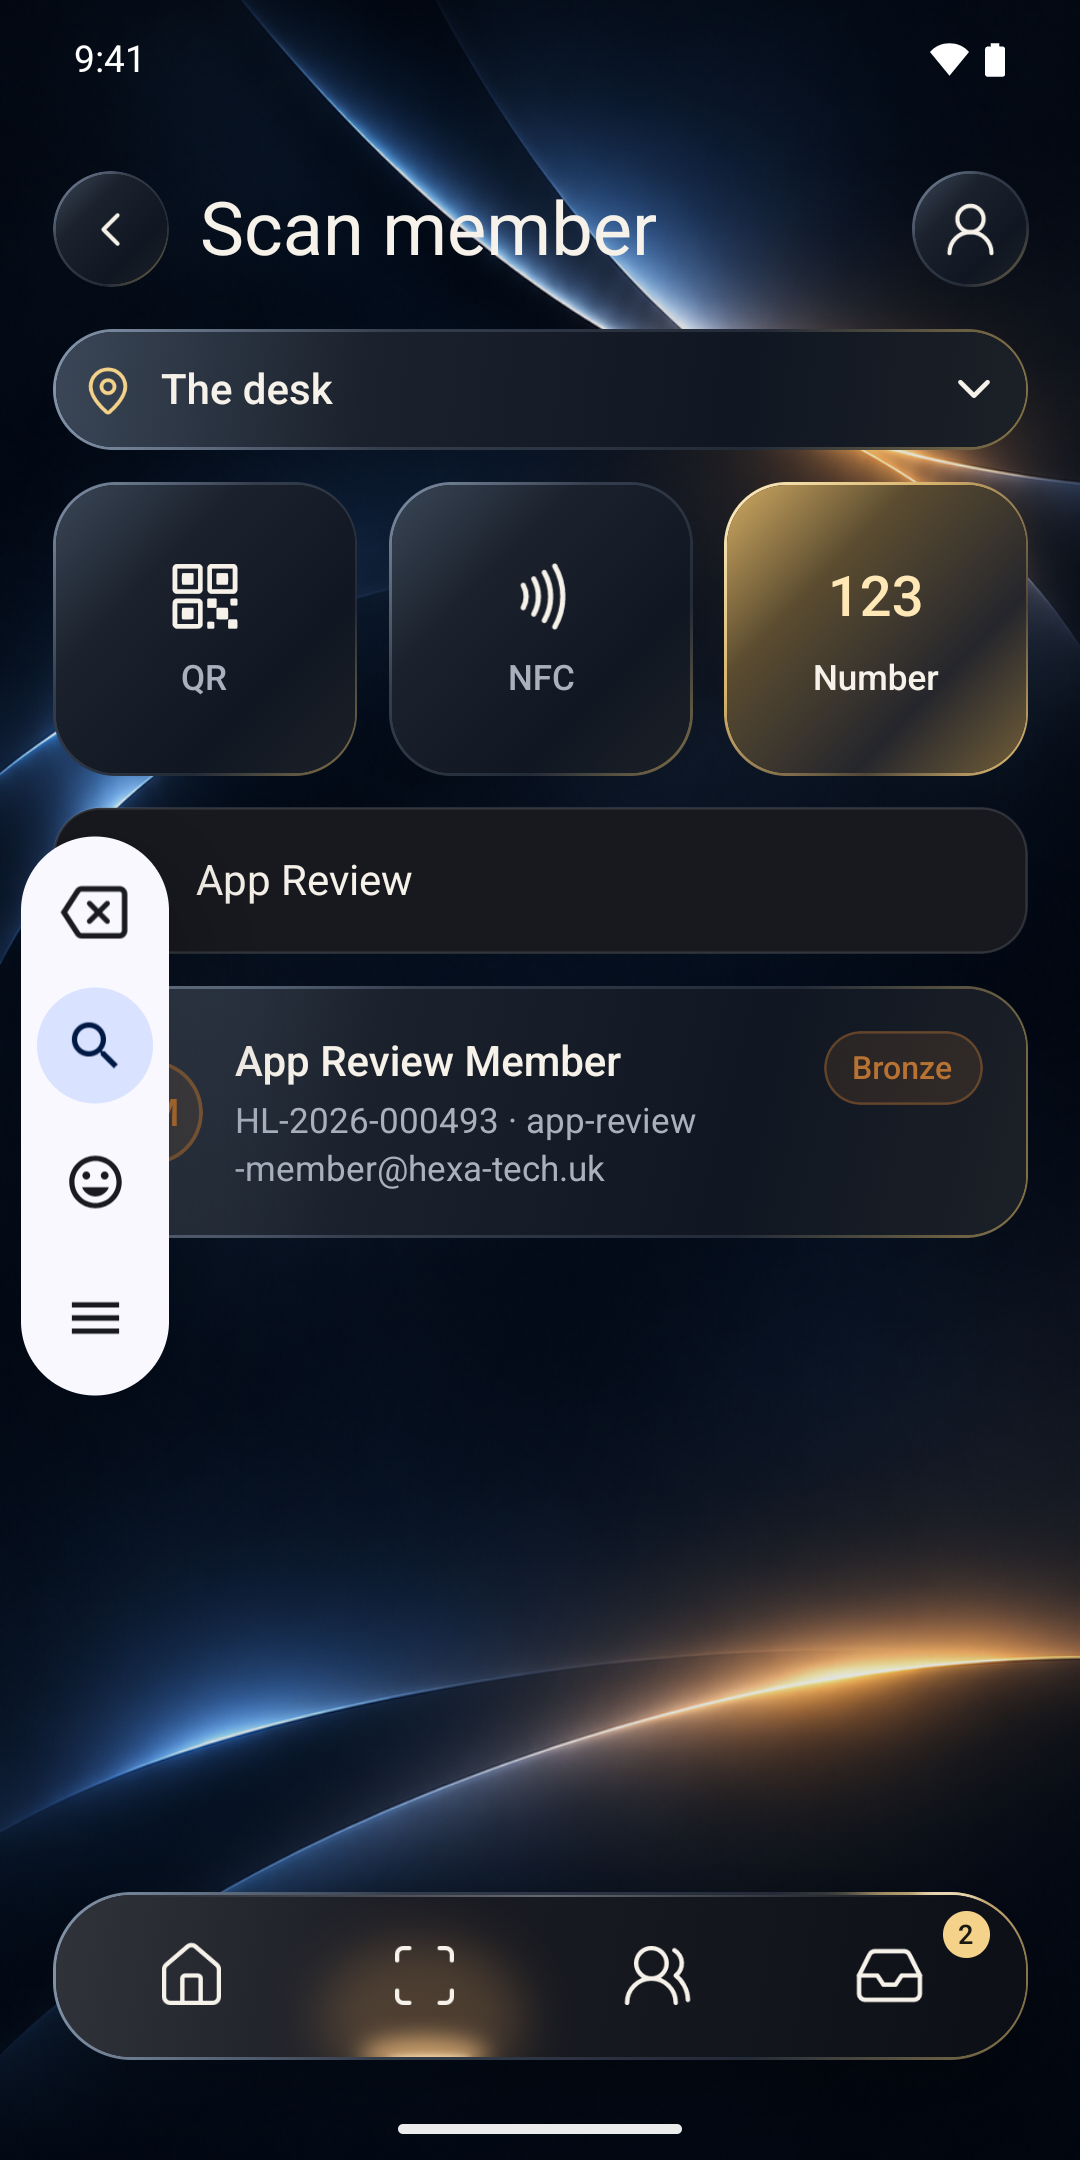
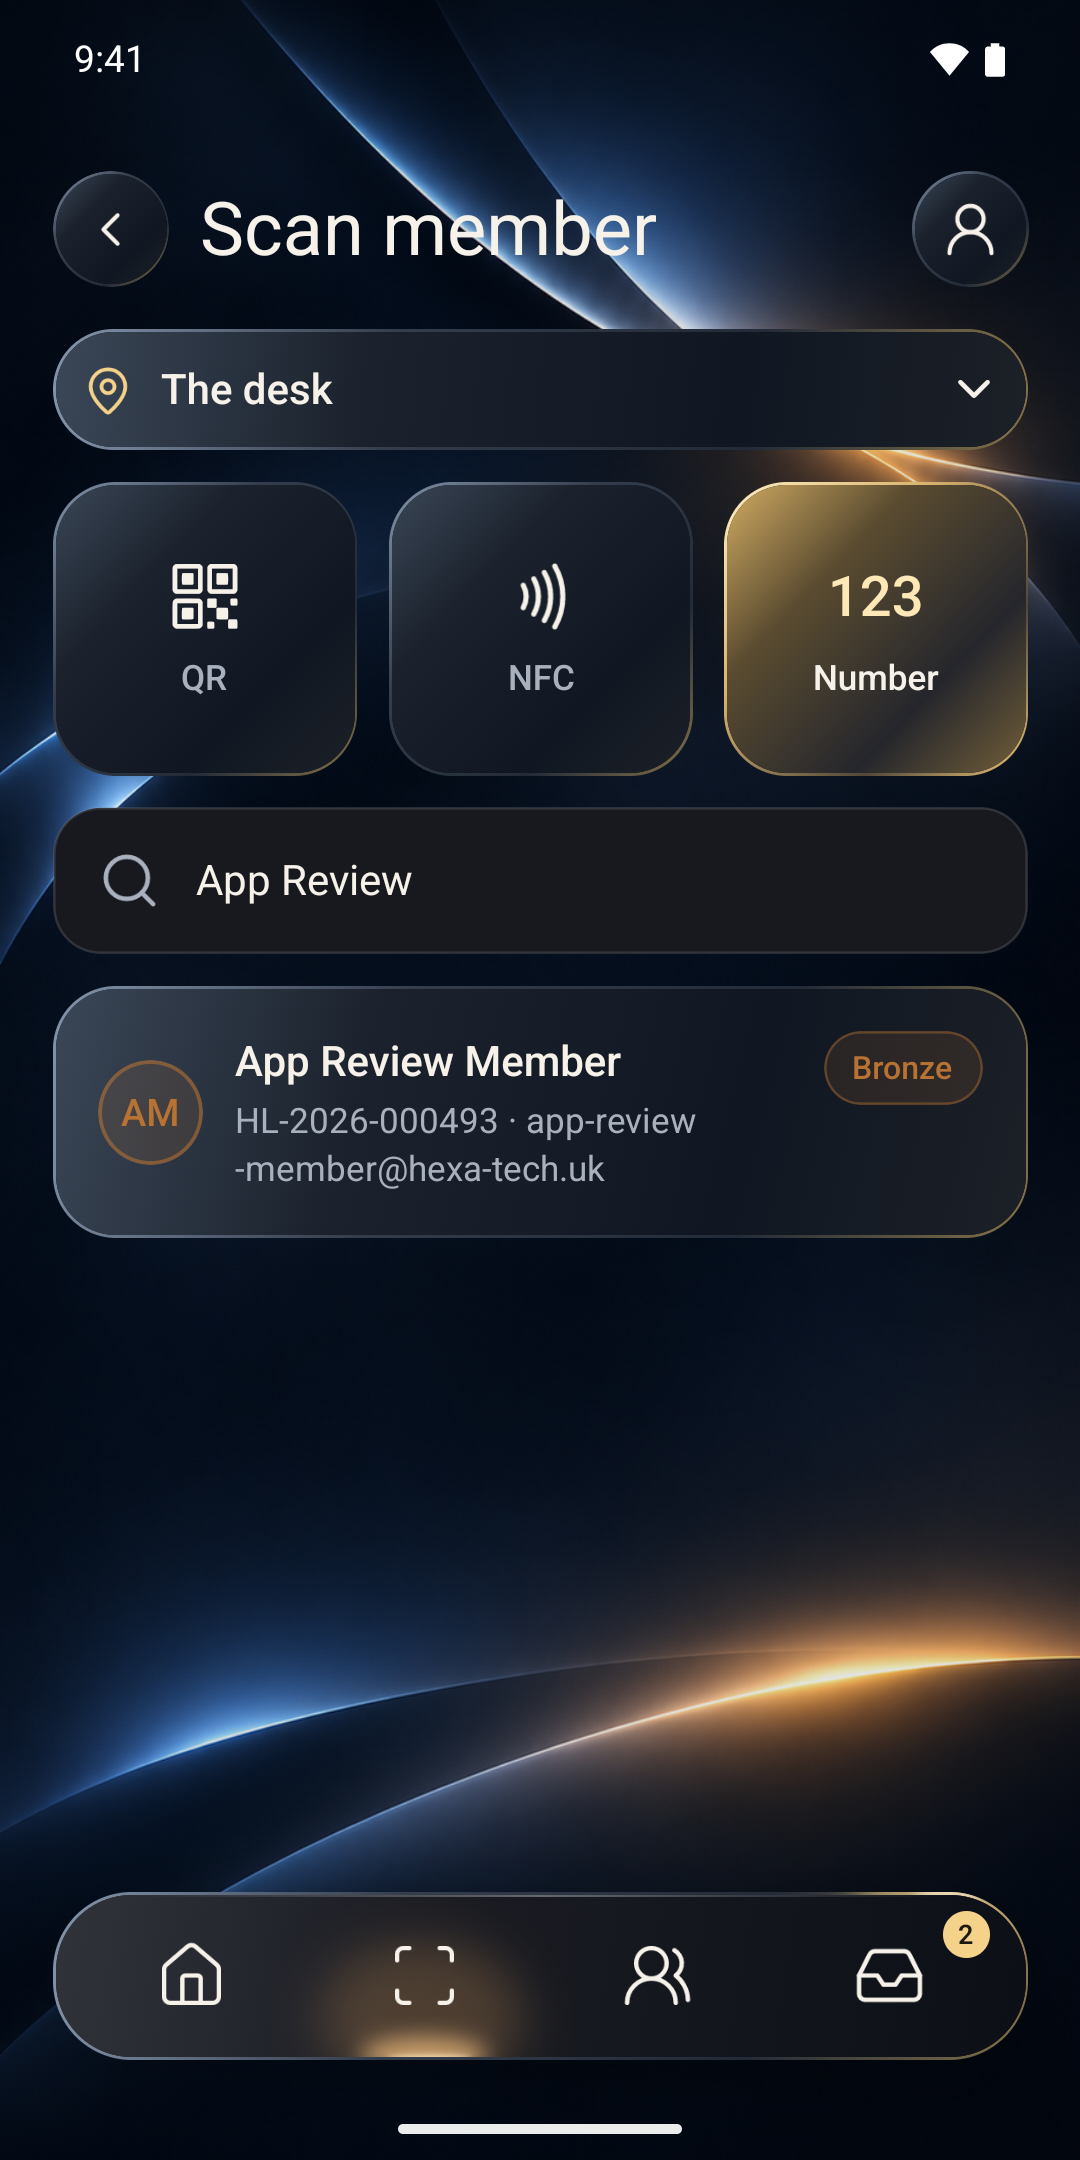
docs(staff): record Play update and browser recovery checkpoint

Changed region(s): [[0.0, 0.3722, 0.1833, 0.6514]]

diff --git a/docs/loyalty-staff-app/18-PLAY-RELEASE-20261105.md b/docs/loyalty-staff-app/18-PLAY-RELEASE-20261105.md
@@ -1,0 +1,22 @@
+# Staff Android 1.0.5 release — 5 November 2026
+
+Owner request: use the supplied root `favicon.jpg` as the app icon, publish the new Android release and update Google Play's screen images. This is Staff only. No Laravel deployment or iOS release is part of this pass.
+
+## Build and assets
+
+- Source branch `feature/staff-play-release-20261105`; runtime `d8cec9e70`. Native mirror runtime `80e68de39`, pushed to `feature/loyalty-staff-app`. Runtime app files matched between both checkouts.
[1 lines of base64/hex data omitted]
+- App version **1.0.5**, remote Android code **4**. Production EAS build `deda8509-5b6c-4bc5-8577-875cb36317e8`, created 2026-11-05 10:00:30 UTC, is compiling at this checkpoint. Build logs and JSON are private under `staff-design/play-105-*`.
+- TypeScript and all **45 tests** pass; Expo dependency check is clean. Initial `npx eslint` selected ESLint 10, incompatible with the existing Expo React plugin; running the installed member-app ESLint with the existing Expo config passes. No source/dependency change was needed for that tooling mismatch.
+- Five updated **1080 × 2160, 24-bit PNG** phone screenshots are in `store/screenshots/play-phone`: Home, manual member search, member card/actions, Requests and More. They are actual Android captures of the tested 1.0.4 layout, which is identical in 1.0.5 (only icon/config changed). Android demo mode removed unrelated status notifications; no app content was composited or edited. The first search capture had a floating input-method toolbar and was replaced by a clean capture before delivery. Display size, demo mode and transition animation were restored afterwards.
+- `store/play/feature-1024x500.png` uses the exact supplied logo and concise app text. Five-language release notes are in `store/play/release-1.0.5.json`, each below Google's 500-character limit. Screenshots show only the isolated reviewer organisation/member; no customer data or credentials were used.
+
+## Play and access checkpoint
+
+Read-only Play API inspection confirms current production and internal tracks are **1.0.0 / code 3**. All five listing texts still match the existing source. Production is publicly released from the earlier approved submission.
+
+An API edit uploaded the replacement icon, feature graphic and five screenshots and verified each returned SHA-256 and count. Its validation/commit sequence then returned **403: The caller does not have permission**. The uncommitted edit was deleted; **the images have not been changed in Play**. Do not claim the assets are staged or published. The existing service account was deliberately granted testing/app-quality access, not production; no permissions were expanded.
+
+The user's already-open browser and desktop could not be reached: both browser host and Computer Use native pipe are unavailable. Retried and reset both runtimes per their recovery instructions; no desktop input was possible. A separate Chrome DevTools browser opens, but remains on Google's sign-in form even after the owner reported sign-in. Do not read/copy browser profile credentials to work around this. The owner was asked to restart the desktop chat application and return, to restore its desktop connection. Continue independent EAS work while possible; finish Play listing replacement and production review submission once an authenticated controllable console is available.
+
+Next: wait for the AAB, verify its package/version/Firebase and upload to the internal track using the existing EAS submit assignment. Then promote code 4 to production with the five release notes, replace English base-listing images (other locales inherit them), review Publishing overview and send the update for review under the owner's explicit publishing request. Never describe submission as approval/publication.

diff --git a/docs/handoff/2026-11-05-staff-play-release.md b/docs/handoff/2026-11-05-staff-play-release.md
@@ -1,0 +1,13 @@
+# Staff Play update — 5 November 2026
+
+Active owner instruction: use root `favicon.jpg` for the app icon, deploy a new Staff Android release to Google Play and update store screenshots. The owner also requests using their open desktop browser. All publication authorization is already present; credentials/legal agreements retain the original release boundaries. No iOS or backend deploy is requested.
+
+Source `C:\wamp64\www\hexatech-apps`, branch `feature/staff-play-release-20261105`, runtime `d8cec9e70`; assets commit `115633bd7` plus a clean replacement search capture pending commit. Mirror `C:\wamp64\www\hexatech-staff-release-20261102`, local branch `feature/loyalty-staff-release-20261102`, runtime `80e68de39`, assets `cc8d1381e`, pushed to `feature/loyalty-staff-app`. Never merge this native branch to Laravel main.
+
+Production build **1.0.5 (4)** is in progress: EAS id `deda8509-5b6c-4bc5-8577-875cb36317e8`. Private status/build/worker logs: `C:\Users\user6399\HexaTech-release-private\staff-design\play-105-*`. Run `build:view` into private JSON, print selected metadata only; signed log URLs must not be echoed. Source JPEG copied exactly, new app/adaptive/web/Play icon exports and five fresh Android screenshots ready. Full details: `docs/loyalty-staff-app/18-PLAY-RELEASE-20261105.md`.
+
+45 tests, TypeScript, installed ESLint and Expo dependency check pass. Screenshots are real native 1080×2160 captures from layout-equivalent 1.0.4 using the isolated demo. No points/requests/cards were mutated. Emulator size/demo mode/transition animation restored. Physical QR recognition/NFC still require a real phone as recorded before.
+
+Play production and internal remain **1.0.0 (3)**. Attempted asset edit passed upload hash/count checks but validation/commit returned 403 and the edit was removed: no Play images have changed. Testing service-account permissions were not expanded. Build can still be submitted to internal through the existing Expo assignment when ready; final production promotion/listing change needs the owner's authenticated console.
+
+Desktop/browser tool blocker: `browser access host is unavailable`; native `Computer Use native pipe is unavailable ... (os error 2)`. CUA and Computer Use node/sky retries/resets failed. Separate Chrome DevTools browser page 3 is on Google sign-in, despite owner reporting they signed in; their normal Chrome is a different profile. Owner says use desktop; desktop helper has no connection. Asked owner to restart the desktop chat application and return. Do not access browser credentials or expand permissions as a workaround. Finish build/AAB/upload work independently, then resume UI once desktop connection works.
